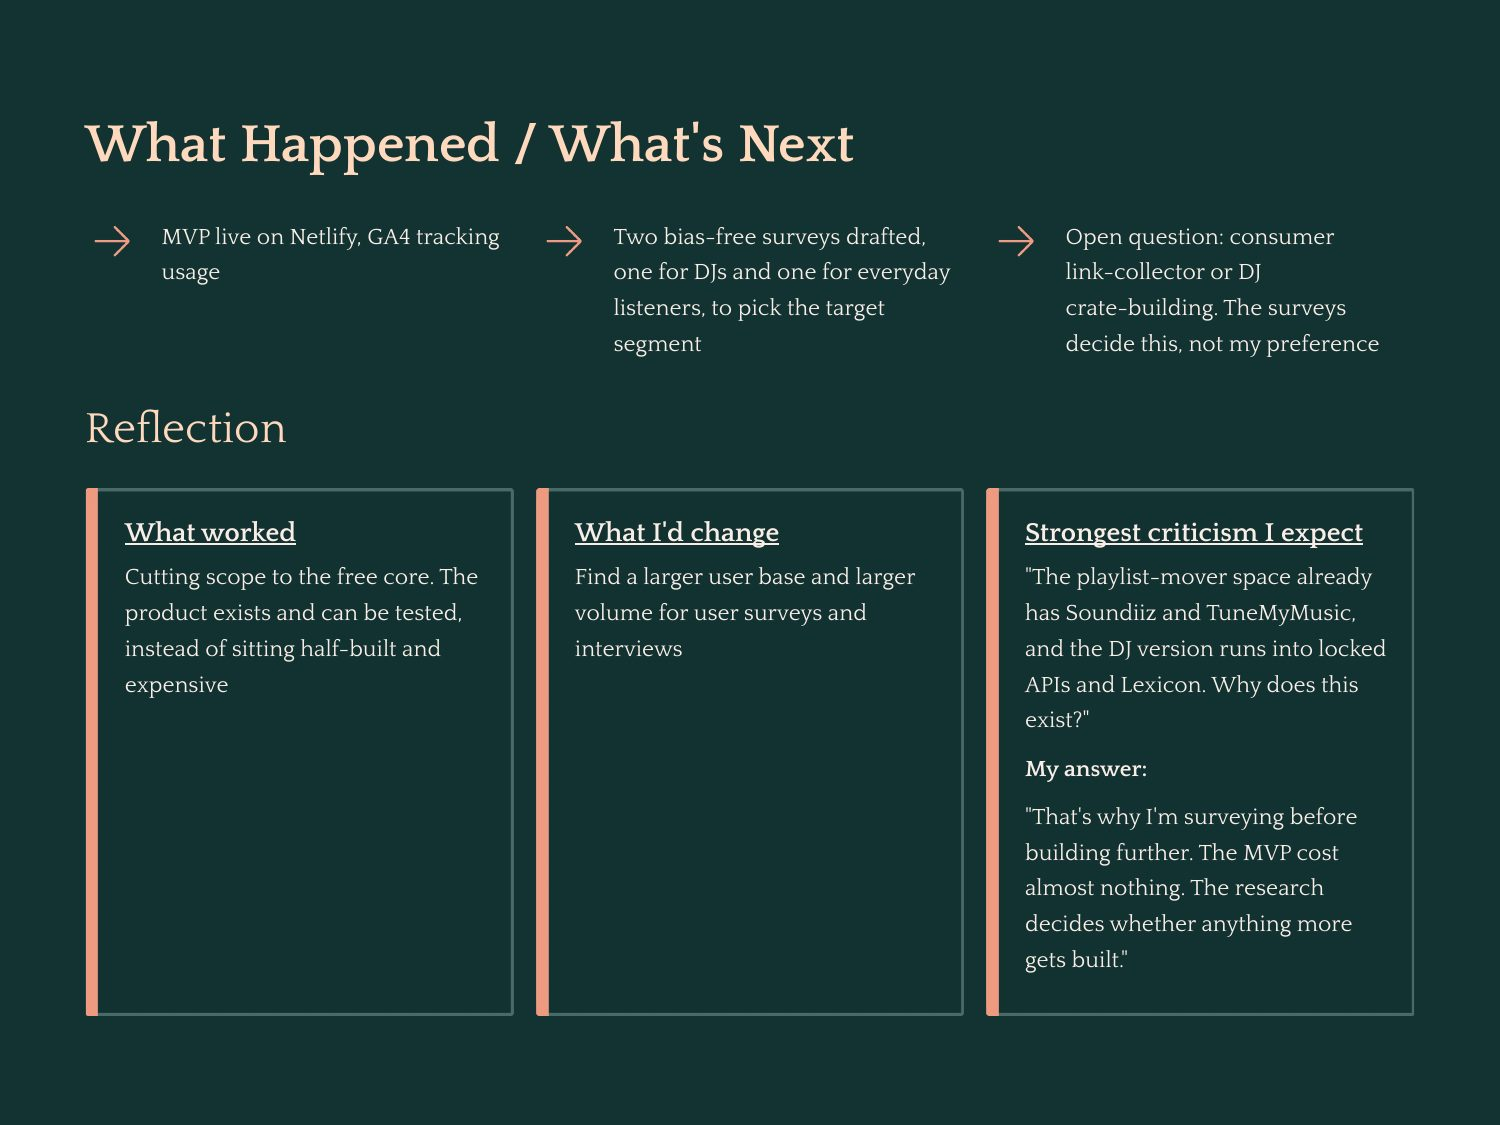
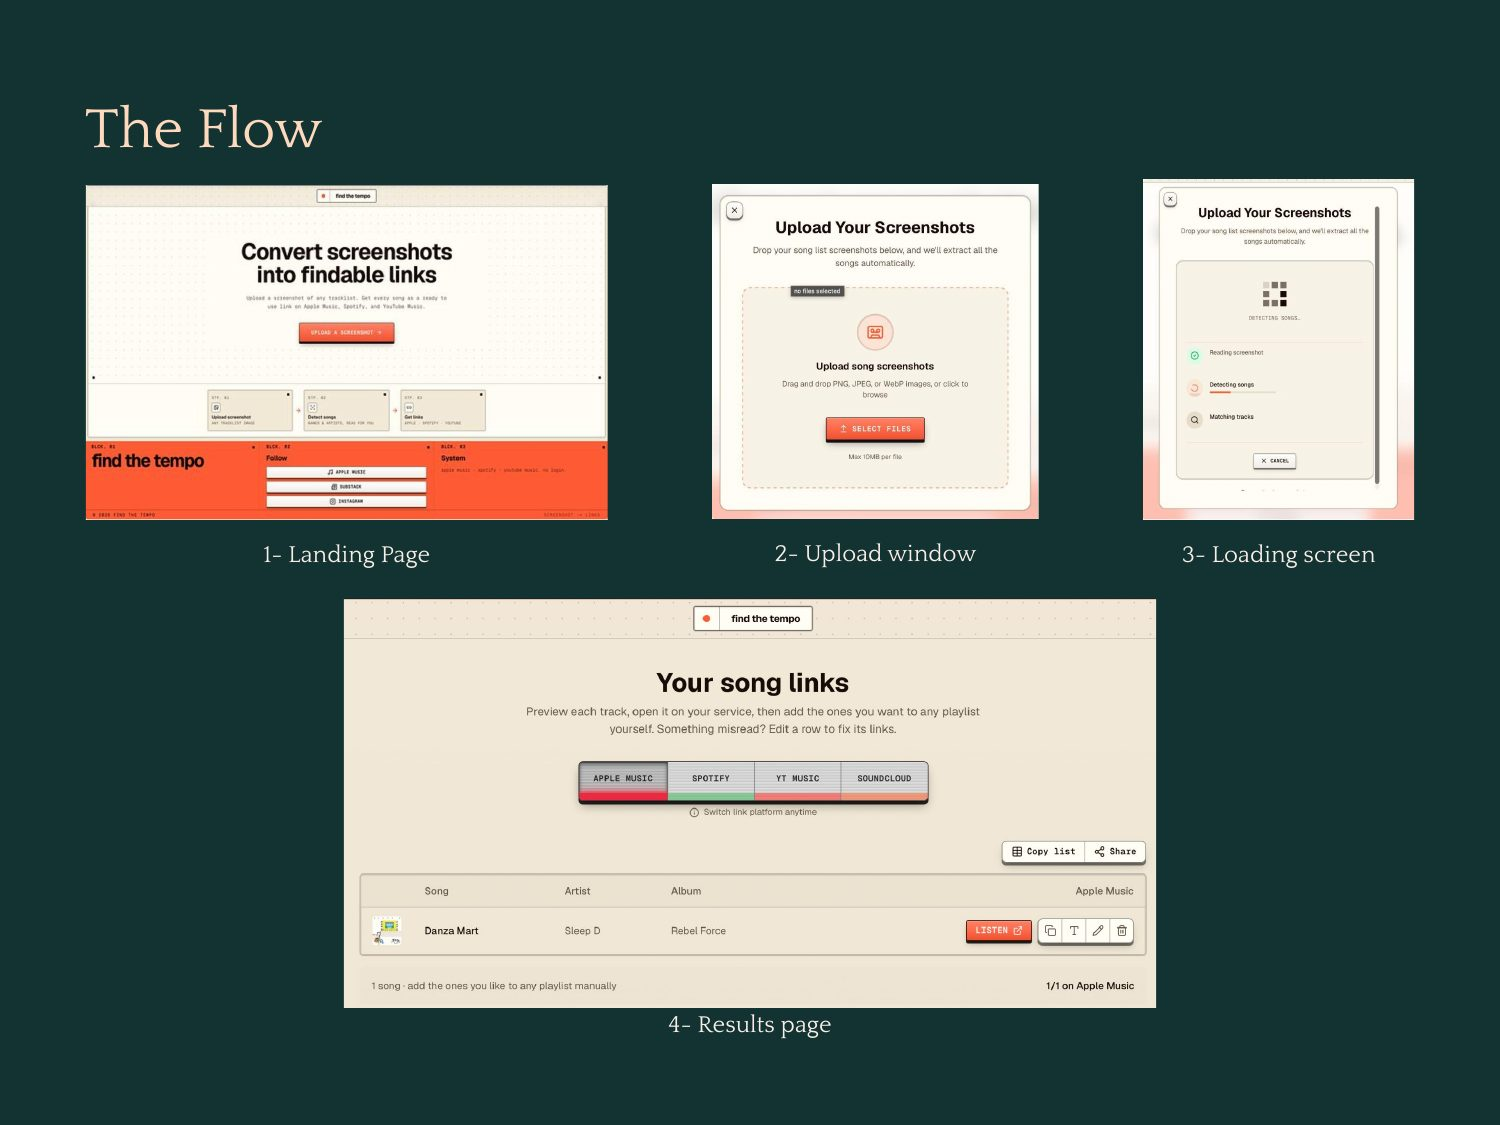
feat(tempo): light/dark theme slides, draggable zoomable wireframe
- Replace Colour system and Brand accents slides with Light and Dark theme
- Add wireframe slide: fixed-height 4:3 frame, drag to pan, Cmd/Ctrl+wheel zoom
- Remove per-slide caption rows, tighten slide gap to 20px
- Renumber slides to 11 and update contents list

diff --git a/design-find-the-tempo.html b/design-find-the-tempo.html
@@ -5,7 +5,7 @@
 <script>try{var t=localStorage.getItem("theme");if(t)document.documentElement.setAttribute("data-theme",t)}catch(e){}</script>
 <meta name="viewport" content="width=device-width, initial-scale=1">
 <title>Find the Tempo - Design - Kaushik Hegde</title>
-<meta name="description" content="Find the Tempo: a web app that turns a screenshot of songs into openable streaming links. The full case-study deck - problem, constraints, decisions, colour system, flow, and reflection.">
+<meta name="description" content="Find the Tempo: a web app that turns a screenshot of songs into openable streaming links. The full case-study deck - problem, constraints, decisions, light and dark themes, wireframe, flow, and reflection.">
 <link rel="canonical" href="https://kaushikhegde.com/design-find-the-tempo">
 <meta property="og:title" content="Find the Tempo - Design - Kaushik Hegde">
 <meta property="og:description" content="Turning a screenshot of songs into openable streaming links - a design case study.">
@@ -18,9 +18,9 @@
 <link rel="preconnect" href="https://fonts.gstatic.com" crossorigin>
 <link href="https://fonts.googleapis.com/css2?family=Silkscreen&display=swap" rel="stylesheet">
 <link rel="stylesheet" href="css/manual.css?v=66">
-<link rel="stylesheet" href="css/case-study.css?v=7">
-<script src="js/main.js?v=27" defer></script>
-<script src="js/case-study.js?v=2" defer></script>
+<link rel="stylesheet" href="css/case-study.css?v=10">
+<script src="js/main.js?v=28" defer></script>
+<script src="js/case-study.js?v=4" defer></script>
   <link rel="alternate" type="text/markdown" title="Markdown version" href="design-find-the-tempo.md">
   <link rel="describedby" type="text/plain" href="llms.txt" title="Portfolio text index">
 </head>
@@ -84,15 +84,16 @@
         <li><a href="#pg-4">04 · Constraints</a></li>
         <li><a href="#pg-5">05 · Decisions 1-2</a></li>
         <li><a href="#pg-6">06 · Decision 3</a></li>
-        <li><a href="#pg-7">07 · Colour system</a></li>
-        <li><a href="#pg-8">08 · Brand accents</a></li>
-        <li><a href="#pg-9">09 · The flow</a></li>
-        <li><a href="#pg-10">10 · What's next</a></li>
+        <li><a href="#pg-7">07 · Light theme</a></li>
+        <li><a href="#pg-8">08 · Dark theme</a></li>
+        <li><a href="#pg-9">09 · Wireframe</a></li>
+        <li><a href="#pg-10">10 · The flow</a></li>
+        <li><a href="#pg-11">11 · What's next</a></li>
       </ol>
     </aside>
 
     <div class="cs-deck">
-      <p class="deck-lede dropcap">A web app that turns a screenshot of songs into openable streaming links. OCR reads each track and artist, then builds one search link per streaming service. Ten pages: the problem, the constraints that shaped it, the decisions, and what I would change.</p>
+      <p class="deck-lede dropcap">A web app that turns a screenshot of songs into openable streaming links. OCR reads each track and artist, then builds one search link per streaming service. Eleven pages: the problem, the constraints that shaped it, the decisions, and what I would change.</p>
 
       <p class="deck-actions">
         <a href="find-the-tempo.pdf" download>[ Download PDF ]</a>
@@ -102,43 +103,38 @@
 
       <figure class="deck-page" id="pg-1">
         <img src="img/tempo-deck/page-1.jpg?v=1" alt="Find the Tempo case study, page 1: Snapshot" width="1500" height="1125" loading="eager" decoding="async">
-        <figcaption><span>Project, role, timeline, tools, live link</span><span class="deck-no">01 / 10</span></figcaption>
       </figure>
       <figure class="deck-page" id="pg-2">
         <img src="img/tempo-deck/page-2.jpg?v=1" alt="Find the Tempo case study, page 2: The problem" width="1500" height="1125" loading="lazy" decoding="async">
-        <figcaption><span>Songs arrive scattered; collecting them is manual</span><span class="deck-no">02 / 10</span></figcaption>
       </figure>
       <figure class="deck-page" id="pg-3">
         <img src="img/tempo-deck/page-3.jpg?v=1" alt="Find the Tempo case study, page 3: Who it's for" width="1500" height="1125" loading="lazy" decoding="async">
-        <figcaption><span>Primary user, what I know, what I don't</span><span class="deck-no">03 / 10</span></figcaption>
       </figure>
       <figure class="deck-page" id="pg-4">
         <img src="img/tempo-deck/page-4.jpg?v=1" alt="Find the Tempo case study, page 4: Constraints" width="1500" height="1125" loading="lazy" decoding="async">
-        <figcaption><span>Cost, API access, solo builder - and the two options</span><span class="deck-no">04 / 10</span></figcaption>
       </figure>
       <figure class="deck-page" id="pg-5">
         <img src="img/tempo-deck/page-5.jpg?v=1" alt="Find the Tempo case study, page 5: Decisions 1-2" width="1500" height="1125" loading="lazy" decoding="async">
-        <figcaption><span>Test before building; core function first</span><span class="deck-no">05 / 10</span></figcaption>
       </figure>
       <figure class="deck-page" id="pg-6">
         <img src="img/tempo-deck/page-6.jpg?v=1" alt="Find the Tempo case study, page 6: Decision 3" width="1500" height="1125" loading="lazy" decoding="async">
-        <figcaption><span>Analog hardware, not another SaaS gradient</span><span class="deck-no">06 / 10</span></figcaption>
       </figure>
       <figure class="deck-page" id="pg-7">
-        <img src="img/tempo-deck/page-7.jpg?v=1" alt="Find the Tempo case study, page 7: Colour system" width="1500" height="1125" loading="lazy" decoding="async">
-        <figcaption><span>OKLCH tokens, light and dark palettes</span><span class="deck-no">07 / 10</span></figcaption>
+        <img src="img/tempo-deck/page-7.jpg?v=2" alt="Find the Tempo case study, page 7: Light theme" width="1500" height="1125" loading="lazy" decoding="async">
       </figure>
       <figure class="deck-page" id="pg-8">
-        <img src="img/tempo-deck/page-8.jpg?v=1" alt="Find the Tempo case study, page 8: Brand accents" width="1500" height="1125" loading="lazy" decoding="async">
-        <figcaption><span>Fixed service colours, loader ramp, type</span><span class="deck-no">08 / 10</span></figcaption>
+        <img src="img/tempo-deck/page-8.jpg?v=2" alt="Find the Tempo case study, page 8: Dark theme" width="1500" height="1125" loading="lazy" decoding="async">
       </figure>
-      <figure class="deck-page" id="pg-9">
-        <img src="img/tempo-deck/page-9.jpg?v=1" alt="Find the Tempo case study, page 9: The flow" width="1500" height="1125" loading="lazy" decoding="async">
-        <figcaption><span>Landing, upload, loading, results</span><span class="deck-no">09 / 10</span></figcaption>
+      <figure class="deck-page deck-page--wire" id="pg-9">
+        <div class="wire-view" tabindex="0" role="region" aria-label="Find the Tempo wireframe, six screens. Drag or scroll to pan, Cmd or Ctrl plus scroll to zoom.">
+          <img src="img/tempo-deck/wireframe.jpg?v=1" alt="Find the Tempo wireframe, page 9: six mobile screens in order - Landing, Upload, File selection, Processing, Services, Results" width="4400" height="1365" loading="lazy" decoding="async" draggable="false">
+        </div>
       </figure>
       <figure class="deck-page" id="pg-10">
-        <img src="img/tempo-deck/page-10.jpg?v=1" alt="Find the Tempo case study, page 10: What's next" width="1500" height="1125" loading="lazy" decoding="async">
-        <figcaption><span>Status, open question, reflection</span><span class="deck-no">10 / 10</span></figcaption>
+        <img src="img/tempo-deck/page-10.jpg?v=1" alt="Find the Tempo case study, page 10: The flow" width="1500" height="1125" loading="lazy" decoding="async">
+      </figure>
+      <figure class="deck-page" id="pg-11">
+        <img src="img/tempo-deck/page-11.jpg?v=1" alt="Find the Tempo case study, page 11: What's next" width="1500" height="1125" loading="lazy" decoding="async">
       </figure>
     </div>
   </div>

diff --git a/js/case-study.js b/js/case-study.js
@@ -37,3 +37,49 @@
   document.addEventListener('scroll', onScroll, { passive: true });
   update();
 })();
+
+/* Wireframe slide: click-and-drag panning and Cmd/Ctrl + wheel zoom for
+   .wire-view (native scroll and keyboard already work). */
+(function () {
+  "use strict";
+  var box = document.querySelector('.wire-view');
+  if (!box) return;
+  var down = false, sx = 0, sy = 0, sl = 0, st = 0;
+
+  box.addEventListener('pointerdown', function (e) {
+    if (e.pointerType !== 'mouse' || e.button !== 0) return;
+    down = true;
+    sx = e.clientX; sy = e.clientY; sl = box.scrollLeft; st = box.scrollTop;
+    box.classList.add('is-dragging');
+    box.setPointerCapture(e.pointerId);
+  });
+  box.addEventListener('pointermove', function (e) {
+    if (!down) return;
+    box.scrollLeft = sl - (e.clientX - sx);
+    box.scrollTop = st - (e.clientY - sy);
+  });
+  function end(e) {
+    if (!down) return;
+    down = false;
+    box.classList.remove('is-dragging');
+    try { box.releasePointerCapture(e.pointerId); } catch (_) {}
+  }
+  var zoom = 1, MIN = 1, MAX = 4;
+  box.addEventListener('wheel', function (e) {
+    if (!(e.ctrlKey || e.metaKey)) return;
+    e.preventDefault();
+    var d = Math.max(-50, Math.min(50, e.deltaY));
+    var next = Math.max(MIN, Math.min(MAX, zoom * Math.exp(-d * 0.01)));
+    if (next === zoom) return;
+    var r = box.getBoundingClientRect();
+    var mx = e.clientX - r.left, my = e.clientY - r.top;
+    var k = next / zoom;
+    var cx = box.scrollLeft + mx, cy = box.scrollTop + my;
+    zoom = next;
+    box.style.setProperty('--wz', zoom);
+    box.scrollLeft = cx * k - mx;
+    box.scrollTop = cy * k - my;
+  }, { passive: false });
+  box.addEventListener('pointerup', end);
+  box.addEventListener('pointercancel', end);
+})();

diff --git a/css/case-study.css b/css/case-study.css
@@ -150,7 +150,7 @@ h2[id] { scroll-margin-block-start: 140px; }
 
 .cs-layout--deck .cs-toc { flex: 0 0 236px; }
 
-.cs-deck { flex: 1 1 auto; min-inline-size: 0; display: flex; flex-direction: column; gap: var(--s4); }
+.cs-deck { flex: 1 1 auto; min-inline-size: 0; display: flex; flex-direction: column; gap: 20px; }
 
 .deck-lede { margin: 0 0 var(--s2); max-inline-size: 68ch; }
 
@@ -189,18 +189,28 @@ h2[id] { scroll-margin-block-start: 140px; }
   inline-size: 100%;
   block-size: auto;
 }
-.deck-page figcaption {
-  display: flex;
-  justify-content: space-between;
-  gap: var(--s2);
-  margin-block-start: 10px;
-  font-family: var(--font-mono);
-  font-size: 11px;
-  letter-spacing: 0.12em;
-  text-transform: uppercase;
-  color: var(--ink-muted);
+/* Wireframe slide: same 4:3 frame as the other slides. Image height is fixed
+   to the frame (zoom 1), so it pans left/right only. Cmd/Ctrl + wheel (or
+   trackpad pinch) sets --wz in js/case-study.js; zoomed in, it pans both ways. */
+.wire-view {
+  container-type: inline-size;
+  aspect-ratio: 4 / 3;
+  overflow: auto;
+  background: #f0f1f3;
+  cursor: grab;
+  touch-action: pan-x pan-y;
+  scrollbar-width: thin;
 }
-.deck-page figcaption .deck-no { color: var(--blueprint); }
+.wire-view.is-dragging { cursor: grabbing; user-select: none; }
+.wire-view img {
+  display: block;
+  max-inline-size: none;
+  inline-size: auto;
+  block-size: calc(100% * var(--wz, 1));
+  user-select: none;
+  -webkit-user-drag: none;
+}
+.wire-view:focus-visible { outline: 2px solid var(--blueprint); outline-offset: 2px; }
 
 @media (max-width: 899px) {
   .cs-layout--deck .cs-toc { flex-basis: auto; }
